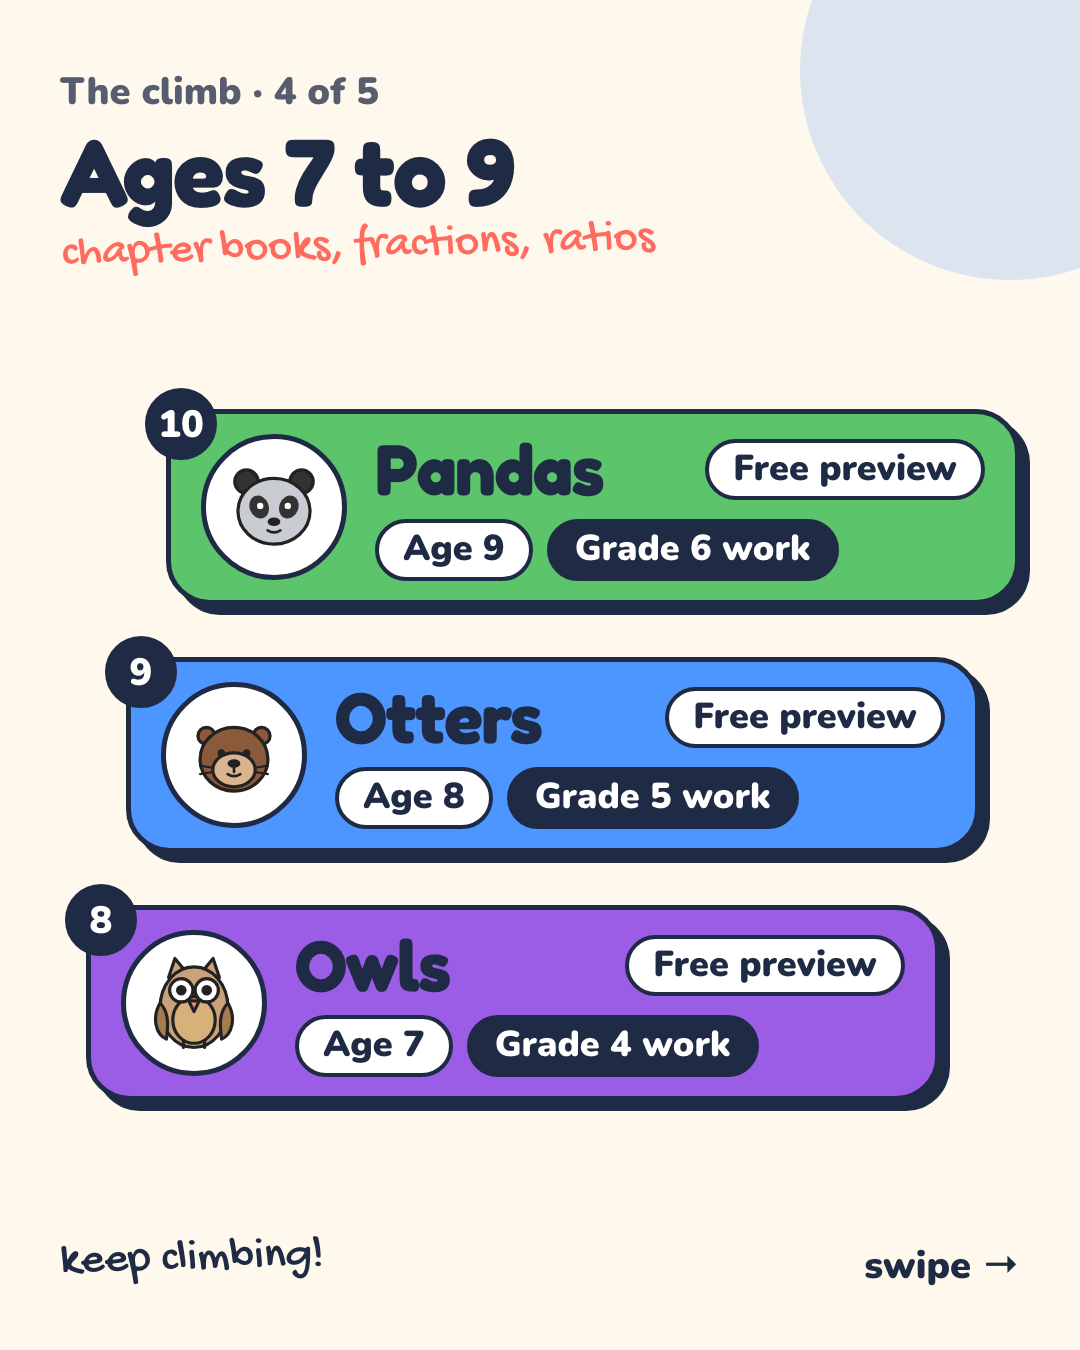
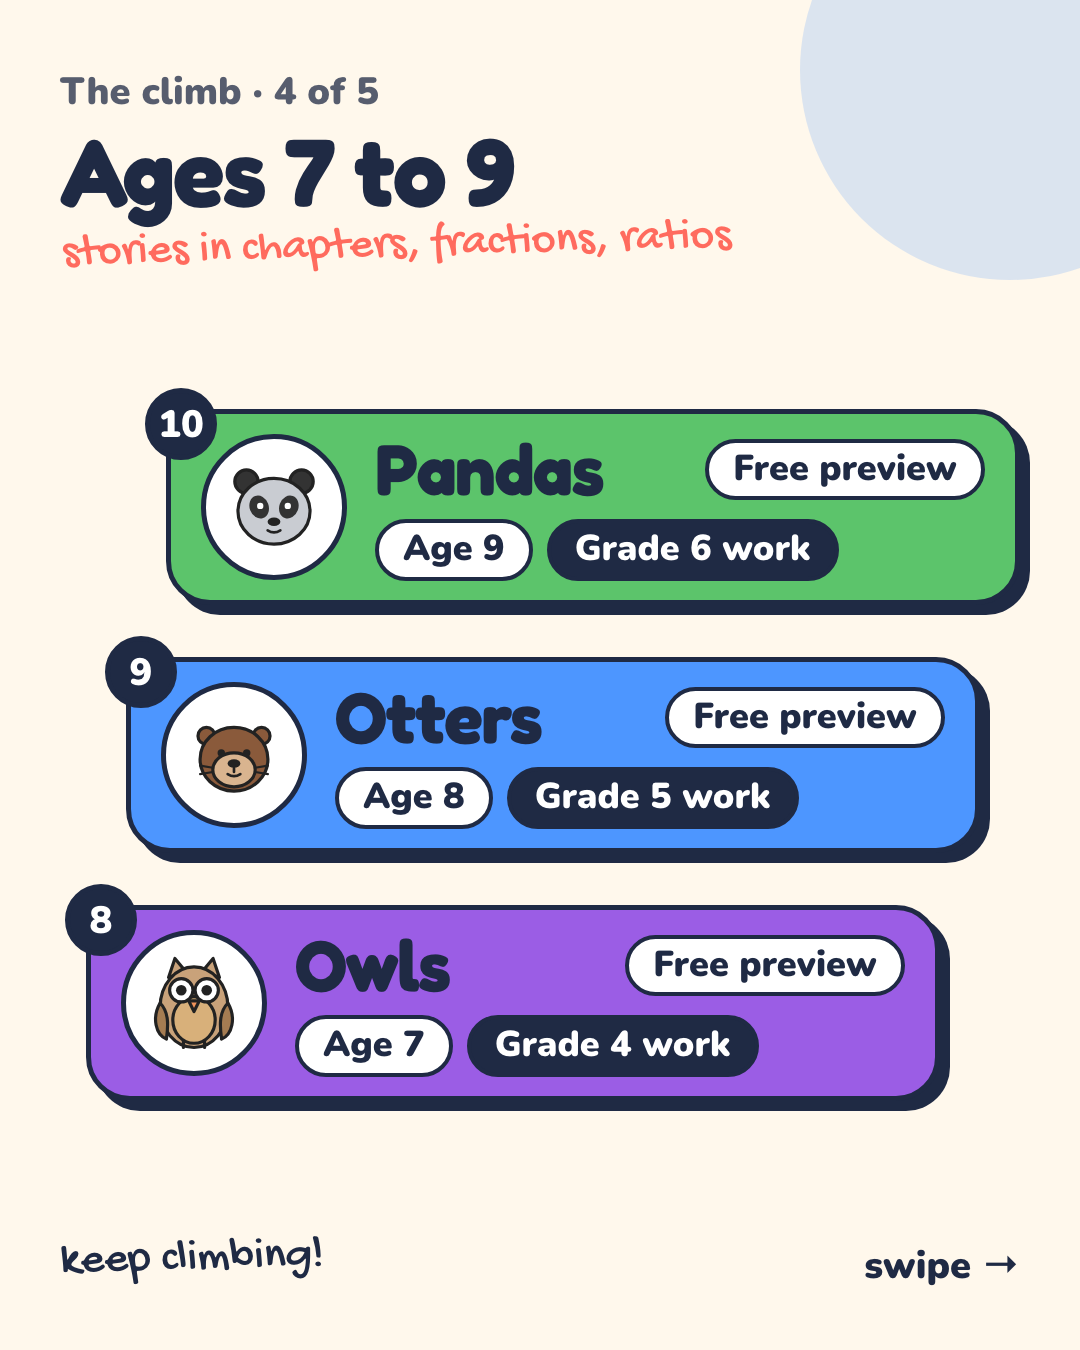
Instagram set 2: render Ages 7 & 8 and Ages 9 to 12 from real previews; match current titles
- set2-05 (Owls, Otters) and set2-06 (Pandas, Penguins, Lions, Whales) with real
  preview pages; sublines/captions checked against the previews
- Cubs: numbers to 1,000; Owls: stories in chapters (02 slide 4, 04 slide 3)
- set2-09 fans Chicks, Whales and Foxes covers; grid preview refreshed; README statuses

Claude-Session: https://claude.ai/code/session_01G3RaoCsPFUWHqcF2R7D6Dn

Changed region(s): [[0.0611, 0.1556, 0.6722, 0.2178]]

diff --git a/scripts/marketing/instagram_launch.py b/scripts/marketing/instagram_launch.py
@@ -279,7 +279,7 @@ def post_levels(all_ready: bool = False) -> list[str]:
     groups = [
         (["chicks", "ducklings", "bunnies", "kittens"], "Ages 3 &amp; 4", "first words, counting, letters"),
         (["puppies", "cubs", "foxes"], "Ages 5 &amp; 6", "spelling, reading aloud, times tables"),
-        (["owls", "otters", "pandas"], "Ages 7 to 9", "chapter books, fractions, ratios"),
+        (["owls", "otters", "pandas"], "Ages 7 to 9", "stories in chapters, fractions, ratios"),
         (["penguins", "lions", "whales"], "Ages 10 to 12", "big ideas, equations, algebra"),
     ]
     slides = [level_road()]

diff --git a/marketing/instagram/posts/README.md b/marketing/instagram/posts/README.md
@@ -5,7 +5,7 @@
 Built 2026-11-06 to replace the launch set once the user has deleted the old posts in the app (see "Retired"
 below). Nine posts = three full grid rows, framed around the whole ladder: 13 levels, ages 3 to 12, reading +
 math about two grades ahead of school, a free preview for every level. No partial counts, no "coming soon".
-Preview: `set2-grid-preview.png` (profile view, each tile cropped to 3:4; unrendered posts show as grey tiles).
+Preview: `set2-grid-preview.png` (profile view, each tile cropped to 3:4).
 
 **Post in this order, oldest first** (the profile shows the newest top-left, so 09 ends up top-left):
 
@@ -15,8 +15,8 @@ Preview: `set2-grid-preview.png` (profile view, each tile cropped to 3:4; unrend
 | 2 | `set2-02-thirteen-levels/` | carousel: all 13 mascots on the climb, then 4 slides of level cards (age, grade work, "Free preview") | sky | launch script | ready |
 | 3 | `set2-03-ages-3-4/` | carousel: band cover + Chicks, Ducklings, Bunnies, Kittens (3 real pages each) | cream | ig_post | ready |
 | 4 | `set2-04-ages-5-6/` | carousel: band cover + Puppies, Cubs, Foxes | grape | ig_post | ready |
-| 5 | `set2-05-ages-7-8/` | carousel: band cover + Owls, Otters | cream | ig_post | **render after Owls + Otters previews exist** |
-| 6 | `set2-06-ages-9-12/` | carousel: 4 mascot badges + Pandas, Penguins, Lions, Whales | coral | ig_post | **render after those previews exist** |
+| 5 | `set2-05-ages-7-8/` | carousel: band cover + Owls, Otters | cream | ig_post | ready |
+| 6 | `set2-06-ages-9-12/` | carousel: 4 mascot badges + Pandas, Penguins, Lions, Whales | coral | ig_post | ready |
 | 7 | `set2-07-two-grades-ahead/` | "Age 6? Grade 3 work." ladder: ages 3/6/9/12 → grade work | cream | launch script | ready |
 | 8 | `set2-08-how-it-works/` | three steps: pick a level, get the whole level (one PDF), a little every day | sun | launch script | ready |
 | 9 | `set2-09-try-free/` | "Try any level free", preview covers fanned, link in bio | cream | ig_post | ready |
@@ -40,18 +40,16 @@ nothing while set 2 is the whole grid (09 is top-left anyway). Once newer posts 
   (`node apps/web/scripts/sync-pictures.mjs && node apps/web/scripts/sync-ladder.mjs`). In a worktree, also
   symlink the main checkout's `node_modules` (or `npm install`): the renders load Nunito from
   `node_modules/@fontsource/nunito`.
-- **05 and 06 are structure only.** Once the Owls, Otters, Pandas, Penguins, Lions and Whales previews are built:
-  look at each preview (`pdftoppm -r 30`), set the page numbers in `post.yaml` to good inner pages (page 1 is
-  the cover, the last page is the closing page), fix the page descriptions in `alt`, check every caption and
-  subline claim against what the previews actually teach (they were written from the ladder titles), render, look at every slide,
-  then re-run `instagram_launch.py set2` to refresh the grid preview. Optionally swap 09's right-hand cover to
-  Whales so the fan spans the ladder.
-- Do not publish any of set 2 before every level is on sale (the posts say every level has a free preview).
+- All nine are rendered (2026-11-06, all 13 levels on sale). Sublines and captions were checked against the
+  real preview pages and the current level titles; when a level's preview or title changes, re-check the page
+  numbers in its `post.yaml` (preview page 1 is the cover, the last page is the closing page), re-render, look at
+  every slide, then re-run `instagram_launch.py set2` for the grid preview.
+- Publish only after the user has deleted the old launch posts in the app (the API can't delete with our setup).
 
 **Posting plan:**
 - Day 1: 01 Hello, then 02 Thirteen levels about an hour later (the profile is never one lonely post).
 - Then one post a day, morning 7–8 am Eastern (or evening 8–9 pm): 03, 04, 05, 06, 07, 08, 09.
-  If 05/06 aren't rendered yet when their turn comes, wait; don't reorder (the checkerboard depends on it).
+  Don't reorder (the checkerboard depends on it).
 - Share each post to stories the same day.
 - After the set: 3 feed posts a week (e.g. Mon / Wed / Sat): real pages from one level per post
   (`ig_post.py`, one level's 3 best pages), new site features, and short parent tips. Post when something a

diff --git a/marketing/instagram/posts/set2-04-ages-5-6/caption.md b/marketing/instagram/posts/set2-04-ages-5-6/caption.md
@@ -6,7 +6,7 @@ Images: `slide-1.png`, `slide-2.png`, `slide-3.png`, `slide-4.png`
 
 Ages 5 and 6: Puppies, Cubs and Foxes 🐶🐻🦊
 
-Puppies works on spelling patterns and adding and taking away within 20. Cubs reads short stories aloud and adds and subtracts two-digit numbers. Foxes reads fables, talks about characters, and learns the times tables.
+Puppies works on spelling patterns and adding and taking away within 20. Cubs reads short stories aloud, counts by 5s, 10s and 100s, and adds and subtracts up to 1,000. Foxes reads fables, talks about characters, and learns the times tables.
 
 Real pages, one small step at a time, about two grades ahead of school.
 
@@ -18,5 +18,5 @@ Swipe through, then print a free preview of any level at the link in bio.
 
 Slide 1: Purple background titled "Ages 5 & 6" with the handwritten line "spelling, reading aloud, times tables" and a label "Grade 1 to grade 3 work". Three real worksheet pages are fanned out (spelling words like chimney and fish, a short read-aloud story called "Muddy Boots", and times tables), with a puppy and a fox peeking over them.
 Slide 2: "Puppies", "spelling patterns, adding to 20", "Age 5, Grade 1–2 work". Three real pages: adding -ing to words, filling in letter teams like "ch" and "sh", and adding facts with a number track.
-Slide 3: "Cubs", "reading aloud, two-digit numbers", "Age 5, Grade 2 work". Three real pages: sorting naming, doing and describing words, the read-aloud story "Muddy Boots" with questions, and counting by 5s and 10s.
+Slide 3: "Cubs", "reading aloud, numbers to 1,000", "Age 5, Grade 2 work". Three real pages: sorting naming, doing and describing words, the read-aloud story "Muddy Boots" with questions, and counting by 5s and 10s.
 Slide 4: "Foxes", "stories, characters, times tables", "Age 6, Grade 3 work". Three real pages: times tables, a story called "A Kite for Leo" with questions, and fractions on a number line. A sticker says "Try it free, link in bio".

diff --git a/marketing/instagram/posts/set2-06-ages-9-12/caption.md b/marketing/instagram/posts/set2-06-ages-9-12/caption.md
@@ -1,0 +1,23 @@
+# set2-06-ages-9-12
+
+Images: `slide-1.png`, `slide-2.png`, `slide-3.png`, `slide-4.png`, `slide-5.png`
+
+## Caption
+
+Ages 9 to 12: Pandas, Penguins, Lions and Whales 🐼🐧🦁🐳
+
+The top of the climb. Pandas reads articles for the central idea and works with ratios, rates and the coordinate plane. Penguins compares two texts on one topic and works with negative numbers, percent change and inequalities. Lions reads closely, explains with evidence, and graphs lines and solves equations. Whales reads speeches and stories for the author's craft and takes on factoring and the quadratic formula.
+
+Still one printable page at a time, still about two grades ahead of school.
+
+Swipe through, then print a free preview of any level at the link in bio.
+
+#printableworksheets #middleschool #homelearning #homeschooling #readingcomprehension #prealgebra #algebra #mathpractice #printables #paperlessons
+
+## Alt text
+
+Slide 1: Coral background titled "Ages 9 to 12" with the handwritten line "big ideas, equations, algebra" and a label "Grade 6 to grade 9 work". Four round badges show a panda, a penguin, a lion and a whale, each with its name underneath.
+Slide 2: "Pandas", "central ideas, ratios, rates", "Age 9, Grade 6 work". Three real pages: unit-rate word problems, an article called "Engineers of the Pond", and plotting points on a coordinate plane.
+Slide 3: "Penguins", "two texts, negative numbers", "Age 10, Grade 7 work". Three real pages: multiplying negative numbers, two texts about the Erie Canal, and inequalities on number lines.
+Slide 4: "Lions", "close reading, linear equations", "Age 11, Grade 8 work". Three real pages: exponent rules, a story called "The Audition", and graphing lines.
+Slide 5: "Whales", "author's craft, quadratics", "Age 12, Grade 9 work". Three real pages: factoring trinomials, a speech called "Start the Day at Eight", and the quadratic formula. A sticker says "Try it free, link in bio".

diff --git a/marketing/instagram/posts/set2-05-ages-7-8/caption.md b/marketing/instagram/posts/set2-05-ages-7-8/caption.md
@@ -1,0 +1,21 @@
+# set2-05-ages-7-8
+
+Images: `slide-1.png`, `slide-2.png`, `slide-3.png`
+
+## Caption
+
+Ages 7 and 8: Owls and Otters 🦉🦦
+
+Owls reads stories in chapters, answers questions about them, and works through long multiplication and division. Otters reads articles for the details that matter and takes on fractions, decimals and volume.
+
+Real pages, one small step at a time, about two grades ahead of school. A few pages a day is plenty.
+
+Swipe through, then print a free preview of either level at the link in bio.
+
+#printableworksheets #kidsworksheets #homelearning #thirdgrade #fourthgrade #readingcomprehension #mathpractice #homeschooling #printables #paperlessons
+
+## Alt text
+
+Slide 1: Cream background titled "Ages 7 & 8" with the handwritten line "stories in chapters, fractions, decimals" and a label "Grade 4 and grade 5 work". Three real worksheet pages are fanned out (chapter 1 of a story called "A Box in the Attic", adding decimals, and adding fractions), with an owl and an otter peeking over them.
+Slide 2: "Owls", "stories in chapters, long division", "Age 7, Grade 4 work". Three real pages: two-digit multiplication, the story "A Box in the Attic", and three-digit division.
+Slide 3: "Otters", "finding details, fractions, decimals", "Age 8, Grade 5 work". Three real pages: adding fractions, an article called "How Sea Otters Stay Warm", and adding decimals. A sticker says "Try it free, link in bio".

diff --git a/marketing/instagram/posts/set2-09-try-free/caption.md b/marketing/instagram/posts/set2-09-try-free/caption.md
@@ -16,4 +16,4 @@ Print a few pages, sit down together, and see how they feel. When it fits, the w
 
 ## Alt text
 
-Cream background titled "Try any level free" with the handwritten line "print a few pages and see how they feel" and a label "A free preview for every level". The covers of three free previews (Chicks, Cubs and Foxes) are fanned out, with a chick and a fox peeking over them. A coral sticker says "Link in bio, paperlessons.com".
+Cream background titled "Try any level free" with the handwritten line "print a few pages and see how they feel" and a label "A free preview for every level". The covers of three free previews (Chicks, Whales and Foxes) are fanned out, with a chick and a whale peeking over them. A coral sticker says "Link in bio, paperlessons.com".
